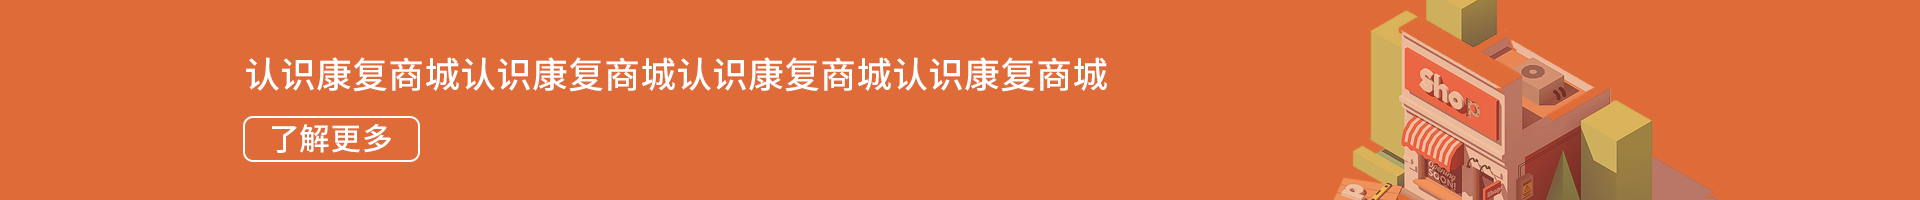
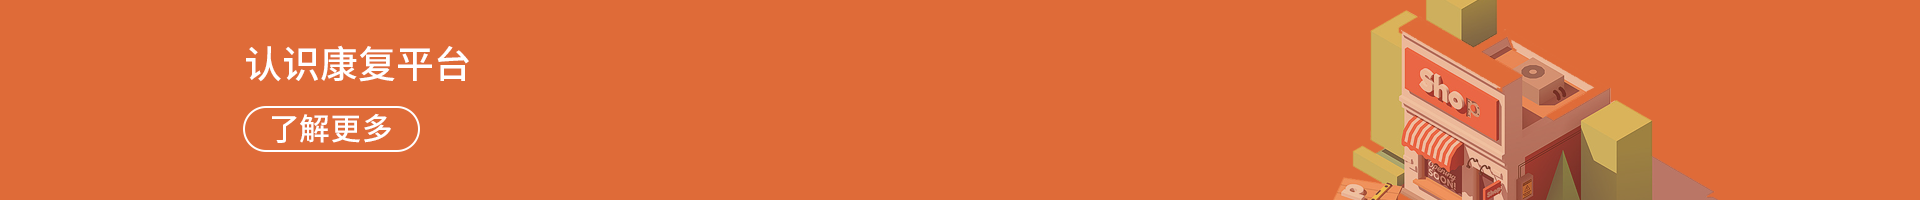
修改样式

Changed region(s): [[0.125, 0.24, 0.5938, 0.45], [0.125, 0.57, 0.2188, 0.81], [0.125, 0.51, 0.2188, 0.54]]

diff --git a/index.html b/index.html
@@ -83,7 +83,7 @@
 												<li><a href="responsibility.html">团队荣誉(以及相关新闻)</a></li>
 											</ul>
 										</li>
-										<li><a href="https://shop.aiknowdoctor.com/" target="_blank">康复商城</a>
+										<li><a href="https://shop.aiknowdoctor.com/" target="_blank">康复平台</a>
 										</li>
 										<li><a href="#.">联系我们</a>
 											<ul>
@@ -123,7 +123,7 @@
 												<li><a href="responsibility.html">团队荣誉(以及相关新闻)</a></li>
 											</ul>
 										</li>
-										<li><a href="https://shop.aiknowdoctor.com/" target="_blank">康复商城</a>
+										<li><a href="https://shop.aiknowdoctor.com/" target="_blank">康复平台</a>
 										<li><a href="#.">联系我们</a>
 											<ul>
 												<li><a href="contact.html">联系方式</a></li>
@@ -148,7 +148,7 @@
 						<div class="display-table">
 							<div class="table-cell">
 								<div class="slider-text text-animation">
-									<h2>AI精准康复全流程管理</h2>
+									<h2>全生命周期AI精准康复</h2>
 									<h2>引领全球康复产业升级</h2>
 									<p>认识康复致力于解决患者的快速康复需求,运用医学人工智能技术海量分析康复知识<br />以实现患者精准康复;构建AI精准康复服务实现患者再不同的病程下精准、安全、有效康复</p>
 									<a class="btn" href="#">了解更多</a>
@@ -215,10 +215,15 @@
 		<div class="linkShop">
 			<div class="container">
 				<div class="row">
-					<img src="img/bg/bg-1.png" class="bgImg">
+					<div class="bgImg"><img src="img/bg/bg-1.png" class="bgImg"></div>
 					<a href="https://shop.aiknowdoctor.com/" target="_blank" class="link"></a>
 				</div>
 			</div>
+		</div>
+		<div class="linkXs">
+			<span class="title">认识康复平台</span>
+			<span class="more">了解更多</span>
+			<a href="https://shop.aiknowdoctor.com/" target="_blank" class="link"></a>
 		</div>
 		<!-- link-shop end -->
 		<!-- enterprise-dynamics start -->
@@ -575,15 +580,13 @@
 								<div class="contact-widget">
 									<ul>
 										<li>
-											<i class="fa fa-home"></i><p>上海：上海市静安区万荣路777弄1号龙盛777商
-												务大厦1002室</p>	
+											<i class="fa fa-home"></i><p>上海：上海市静安区万荣路777弄1号龙盛777商务大厦1002室</p>	
 										</li>
 										<li>
 											<i class="fa fa-envelope"></i><p class="phone-number">邮箱：hr@aiknowdoctor.com</p>	
 										</li>
 										<li>
-											<i class="fa fa-home"></i><p>浙江：浙江省杭州市余杭区良睦路1299号梦想小镇
-												创业集市3幢2楼</p>	
+											<i class="fa fa-home"></i><p>浙江：浙江省杭州市余杭区良睦路1299号梦想小镇 创业集市3幢2楼</p>	
 										</li>
 										<li>
 											<i class="fa fa-mobile" style="font-size: 26px;"></i><p>电话：0571-87601332</p>	

diff --git a/style.css b/style.css
@@ -715,6 +715,11 @@ nav.nav-menu-show {
   height: 222px;
   width: 512px;
 }
+@media screen and (min-width: 992px) and (max-width: 1200px) {
+  .logoImg img {
+    width: 100%;
+  }
+}
 @media (max-width: 767px) {
   .logoImg img {
     width: 100%;
@@ -725,6 +730,11 @@ nav.nav-menu-show {
   padding-top: 30px;
   padding-bottom: 30px;
   background-color: #fff;
+}
+@media screen and (min-width: 992px) and (max-width: 1200px) {
+  .leftNews {
+    width: 100%;
+  }
 }
 .leftTitle {
   margin-right: 110px;
@@ -799,6 +809,12 @@ nav.nav-menu-show {
   overflow-y: scroll;
   overflow-x: hidden;
 }
+@media screen and (min-width: 992px) and (max-width: 1200px) {
+  .development {
+    width: 992px;
+  }
+}
+
 .development::-webkit-scrollbar {
   width: 0;
 }
@@ -2931,7 +2947,51 @@ ul.tag li a:hover{background:#1696E7;border-color:#1696E7;color:#fff}
 
 /* 27. link-shop */
 .linkShop {
-  height: 200px;
+  /* height: 200px; */
+  display: block;
+}
+.linkXs {
+  position: relative;
+  height: 115px;
+  background: url('img/bg/shop.png') no-repeat;
+  background-size: cover;
+  display: none;
+}
+.linkXs .link {
+  position: relative;
+  display: block;
+  width: 100%;
+  height: 100%;
+  z-index: 99;
+}
+.linkXs .title {
+  position: absolute;
+  left: 10%;
+  top: 10%;
+  color: #fff;
+  font-size: 24px;
+  font-family: '黑体';
+  font-weight: 600;
+}
+.linkXs .more {
+  padding: 4px 10px;
+  position: absolute;
+  left: 10%;
+  top: 45%;
+  color: #fff;
+  font-size: 16px;
+  font-family: '黑体';
+  font-weight: 600;
+  border: 1px solid #fff;
+  border-radius: 25px;
+}
+@media screen and (min-width: 100px) and (max-width: 767px) {
+  .linkShop {
+    display: none;
+  }
+  .linkXs {
+    display: block;
+  }
 }
 .linkShop .bgImg {
   display: inline-block;

diff --git a/contact.html b/contact.html
@@ -79,7 +79,7 @@
 												<li><a href="responsibility.html">团队荣誉(以及相关新闻)</a></li>
 											</ul>
 										</li>
-										<li><a href="https://shop.aiknowdoctor.com/" target="_blank">康复商城</a>
+										<li><a href="https://shop.aiknowdoctor.com/" target="_blank">康复平台</a>
 										</li>
 										<li><a href="#.">联系我们</a>
 											<ul>
@@ -119,7 +119,7 @@
 												<li><a href="responsibility.html">团队荣誉(以及相关新闻)</a></li>
 											</ul>
 										</li>
-										<li><a href="https://shop.aiknowdoctor.com/" target="_blank">康复商城</a>
+										<li><a href="https://shop.aiknowdoctor.com/" target="_blank">康复平台</a>
 										<li><a href="#.">联系我们</a>
 											<ul>
 												<li><a href="contact.html">联系方式</a></li>
@@ -190,15 +190,13 @@
 								<div class="contact-widget">
 									<ul>
 										<li>
-											<i class="fa fa-home"></i><p>上海：上海市静安区万荣路777弄1号龙盛777商
-												务大厦1002室</p>	
+											<i class="fa fa-home"></i><p>上海：上海市静安区万荣路777弄1号龙盛777商务大厦1002室</p>	
 										</li>
 										<li>
 											<i class="fa fa-envelope"></i><p class="phone-number">邮箱：hr@aiknowdoctor.com</p>	
 										</li>
 										<li>
-											<i class="fa fa-home"></i><p>浙江：浙江省杭州市余杭区良睦路1299号梦想小镇
-												创业集市3幢2楼</p>	
+											<i class="fa fa-home"></i><p>浙江：浙江省杭州市余杭区良睦路1299号梦想小镇 创业集市3幢2楼</p>	
 										</li>
 										<li>
 											<i class="fa fa-mobile" style="font-size: 26px;"></i><p>电话：0571-87601332</p>	

diff --git a/responsibility.html b/responsibility.html
@@ -79,7 +79,7 @@
 												<li><a href="responsibility.html">团队荣誉(以及相关新闻)</a></li>
 											</ul>
 										</li>
-										<li><a href="https://shop.aiknowdoctor.com/" target="_blank">康复商城</a>
+										<li><a href="https://shop.aiknowdoctor.com/" target="_blank">康复平台</a>
 										</li>
 										<li><a href="#.">联系我们</a>
 											<ul>
@@ -119,7 +119,7 @@
 												<li><a href="responsibility.html">团队荣誉(以及相关新闻)</a></li>
 											</ul>
 										</li>
-										<li><a href="https://shop.aiknowdoctor.com/" target="_blank">康复商城</a>
+										<li><a href="https://shop.aiknowdoctor.com/" target="_blank">康复平台</a>
 										<li><a href="#.">联系我们</a>
 											<ul>
 												<li><a href="contact.html">联系方式</a></li>
@@ -278,15 +278,13 @@
 								<div class="contact-widget">
 									<ul>
 										<li>
-											<i class="fa fa-home"></i><p>上海：上海市静安区万荣路777弄1号龙盛777商
-												务大厦1002室</p>	
+											<i class="fa fa-home"></i><p>上海：上海市静安区万荣路777弄1号龙盛777商务大厦1002室</p>	
 										</li>
 										<li>
 											<i class="fa fa-envelope"></i><p class="phone-number">邮箱：hr@aiknowdoctor.com</p>	
 										</li>
 										<li>
-											<i class="fa fa-home"></i><p>浙江：浙江省杭州市余杭区良睦路1299号梦想小镇
-												创业集市3幢2楼</p>	
+											<i class="fa fa-home"></i><p>浙江：浙江省杭州市余杭区良睦路1299号梦想小镇 创业集市3幢2楼</p>	
 										</li>
 										<li>
 											<i class="fa fa-mobile" style="font-size: 26px;"></i><p>电话：0571-87601332</p>	

diff --git a/responsibilityInfo.html b/responsibilityInfo.html
@@ -78,7 +78,7 @@
 												<li><a href="responsibility.html">团队荣誉(以及相关新闻)</a></li>
 											</ul>
 										</li>
-										<li><a href="https://shop.aiknowdoctor.com/" target="_blank">康复商城</a>
+										<li><a href="https://shop.aiknowdoctor.com/" target="_blank">康复平台</a>
 										</li>
 										<li><a href="#.">联系我们</a>
 											<ul>
@@ -118,7 +118,7 @@
 												<li><a href="responsibility.html">团队荣誉(以及相关新闻)</a></li>
 											</ul>
 										</li>
-										<li><a href="https://shop.aiknowdoctor.com/" target="_blank">康复商城</a>
+										<li><a href="https://shop.aiknowdoctor.com/" target="_blank">康复平台</a>
 										<li><a href="#.">联系我们</a>
 											<ul>
 												<li><a href="contact.html">联系方式</a></li>
@@ -191,15 +191,13 @@
 								<div class="contact-widget">
 									<ul>
 										<li>
-											<i class="fa fa-home"></i><p>上海：上海市静安区万荣路777弄1号龙盛777商
-												务大厦1002室</p>	
+											<i class="fa fa-home"></i><p>上海：上海市静安区万荣路777弄1号龙盛777商务大厦1002室</p>	
 										</li>
 										<li>
 											<i class="fa fa-envelope"></i><p class="phone-number">邮箱：hr@aiknowdoctor.com</p>	
 										</li>
 										<li>
-											<i class="fa fa-home"></i><p>浙江：浙江省杭州市余杭区良睦路1299号梦想小镇
-												创业集市3幢2楼</p>	
+											<i class="fa fa-home"></i><p>浙江：浙江省杭州市余杭区良睦路1299号梦想小镇 创业集市3幢2楼</p>	
 										</li>
 										<li>
 											<i class="fa fa-mobile" style="font-size: 26px;"></i><p>电话：0571-87601332</p>	

diff --git a/team.html b/team.html
@@ -80,7 +80,7 @@
 												<li><a href="responsibility.html">团队荣誉(以及相关新闻)</a></li>
 											</ul>
 										</li>
-										<li><a href="https://shop.aiknowdoctor.com/" target="_blank">康复商城</a>
+										<li><a href="https://shop.aiknowdoctor.com/" target="_blank">康复平台</a>
 										</li>
 										<li><a href="#.">联系我们</a>
 											<ul>
@@ -120,7 +120,7 @@
 												<li><a href="responsibility.html">团队荣誉(以及相关新闻)</a></li>
 											</ul>
 										</li>
-										<li><a href="https://shop.aiknowdoctor.com/" target="_blank">康复商城</a>
+										<li><a href="https://shop.aiknowdoctor.com/" target="_blank">康复平台</a>
 										<li><a href="#.">联系我们</a>
 											<ul>
 												<li><a href="contact.html">联系方式</a></li>
@@ -279,15 +279,13 @@
 								<div class="contact-widget">
 									<ul>
 										<li>
-											<i class="fa fa-home"></i><p>上海：上海市静安区万荣路777弄1号龙盛777商
-												务大厦1002室</p>	
+											<i class="fa fa-home"></i><p>上海：上海市静安区万荣路777弄1号龙盛777商务大厦1002室</p>	
 										</li>
 										<li>
 											<i class="fa fa-envelope"></i><p class="phone-number">邮箱：hr@aiknowdoctor.com</p>	
 										</li>
 										<li>
-											<i class="fa fa-home"></i><p>浙江：浙江省杭州市余杭区良睦路1299号梦想小镇
-												创业集市3幢2楼</p>	
+											<i class="fa fa-home"></i><p>浙江：浙江省杭州市余杭区良睦路1299号梦想小镇 创业集市3幢2楼</p>	
 										</li>
 										<li>
 											<i class="fa fa-mobile" style="font-size: 26px;"></i><p>电话：0571-87601332</p>	

diff --git a/404.html b/404.html
@@ -79,7 +79,7 @@
 												<li><a href="responsibility.html">团队荣誉(以及相关新闻)</a></li>
 											</ul>
 										</li>
-										<li><a href="https://shop.aiknowdoctor.com/" target="_blank">康复商城</a>
+										<li><a href="https://shop.aiknowdoctor.com/" target="_blank">康复平台</a>
 										</li>
 										<li><a href="#.">联系我们</a>
 											<ul>
@@ -119,7 +119,7 @@
 												<li><a href="responsibility.html">团队荣誉(以及相关新闻)</a></li>
 											</ul>
 										</li>
-										<li><a href="https://shop.aiknowdoctor.com/" target="_blank">康复商城</a>
+										<li><a href="https://shop.aiknowdoctor.com/" target="_blank">康复平台</a>
 										<li><a href="#.">联系我们</a>
 											<ul>
 												<li><a href="contact.html">联系方式</a></li>
@@ -173,8 +173,7 @@
 								<div class="contact-widget">
 									<ul>
 										<li>
-											<i class="fa fa-home"></i><p>上海：上海市静安区万荣路777弄1号龙盛777商
-												务大厦1002室</p>	
+											<i class="fa fa-home"></i><p>上海：上海市静安区万荣路777弄1号龙盛777商务大厦1002室</p>	
 										</li>
 										<li>
 											<i class="fa fa-envelope"></i><p class="phone-number">邮箱：hr@aiknowdoctor.com</p>	

diff --git a/about.html b/about.html
@@ -97,7 +97,7 @@
                     </li>
                     <li>
                       <a href="https://shop.aiknowdoctor.com/" target="_blank"
-                        >康复商城</a
+                        >康复平台</a
                       >
                     </li>
                     <li>
@@ -146,7 +146,7 @@
                     </li>
                     <li>
                       <a href="https://shop.aiknowdoctor.com/" target="_blank"
-                        >康复商城</a
+                        >康复平台</a
                       >
                     </li>
                     <li>
@@ -287,8 +287,7 @@
 								<div class="contact-widget">
 									<ul>
 										<li>
-											<i class="fa fa-home"></i><p>上海：上海市静安区万荣路777弄1号龙盛777商
-												务大厦1002室</p>	
+											<i class="fa fa-home"></i><p>上海：上海市静安区万荣路777弄1号龙盛777商务大厦1002室</p>	
 										</li>
 										<li>
 											<i class="fa fa-envelope"></i><p class="phone-number">邮箱：hr@aiknowdoctor.com</p>	
